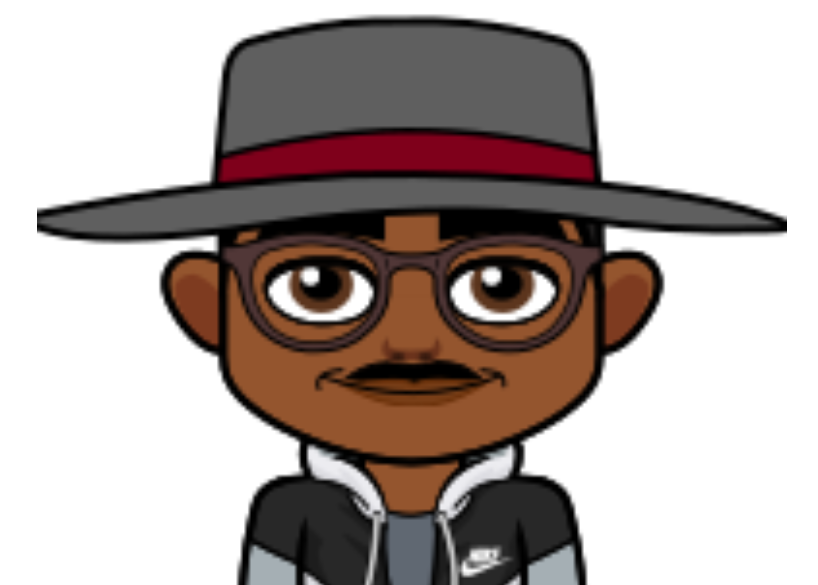
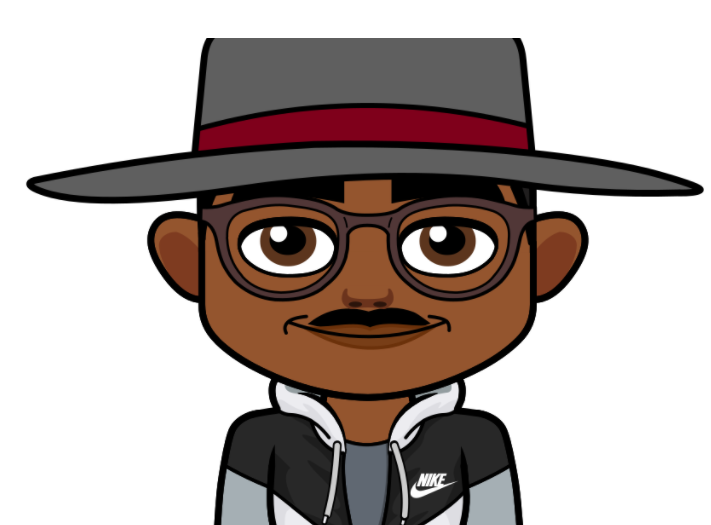
adding more bitmoji

Changed region(s): [[0.0309, 0.0, 0.9902, 1.0]]

diff --git a/src/routes/about.js b/src/routes/about.js
@@ -1,10 +1,10 @@
 import React from "react"
 import EmailIcon from "@material-ui/icons/Email";
 import GitHubIcon from "@material-ui/icons/GitHub";
-import libmoji from 'libmoji'
+//import libmoji from 'libmoji'
 
 import officers from '../data/officer-data';
-import baoBitmoji from "../images/bao.PNG"
+
 import '../css/about.css';
 
 class About extends React.Component {
@@ -60,44 +60,41 @@ const Officer = props => {
         email, github
     } = props;
 
-    const data = {
-        "name": "Chau",
-        "gender": "female",
+    /*const data = {
+        "name": "Bao",
+        "gender": "male",
         "traits": {
-            "brow": "768",
+            "beard": "-1",
+            "brow": "755",
             "cheek_details": "-1",
-            "eyelash": "-1",
             "eye_details": "939",
-            "face_lines": "-1",
+            "face_lines": "942",
             "glasses": "954",
-            "hair": "1260",
-            "hat": "1178",
-            "mouth": "1055",
-            "nose": "1032",
+            "hair": "813",
+            "hat": "1081",
+            "mouth": "763",
+            "nose": "761",
+            "beard_tone": "3875595",
             "blush_tone": "-1",
             "brow_tone": "0",
             "eyeshadow_tone": "-1",
-            "hair_tone": "2039326",
+            "hair_tone": "2566954",
             "lipstick_tone": "-1",
             "pupil_tone": "5977116",
-            "skin_tone": "9655597",
-            "body": "7",
-            "breast": "3",
-            "face_proportion": "2"
+            "skin_tone": "15838344",
+            "body": "2",
+            "face_proportion": "3"
         },
-        "outfit": "1017915"
+        "outfit": "1018481"
     }
-    let style = libmoji.styles[libmoji.randInt(3)];
-    console.log(style[1])
+
     const { gender, traits, outfit } = data;
-    const styles = [["bitstrips", 1], ['bitmoji', 4], ["cm", 5]];
-    const bitmojiImage = libmoji.buildPreviewUrl("body",
-        4,
+    const bitmojiImage = libmoji.buildPreviewUrl("body", 4,
         gender === 'female' ? 2 : 1,
         4, 0,
         Object.keys(traits).map(k => [k, traits[k]]),
         outfit
-    );
+    );*/
 
     return (
         <div className="officer-container">

diff --git a/src/data/officer-data.js b/src/data/officer-data.js
@@ -1,11 +1,13 @@
 import baoBitmoji from "../images/bao.PNG"
 import brendanBitmoji from "../images/brendan.PNG"
 import chauBitmoji from "../images/chau.PNG"
+import vivianBitmoji from "../images/vivian.PNG"
+
 const officers = [
     {
         name: "Vivian Lee",
         major: "Computer Engineering",
-        image: "https://i.pinimg.com/originals/32/93/2a/32932abc2400f4f6a4e67eecd14e9b9e.jpg",
+        image: vivianBitmoji,
         position: "President",
         link: "https://viviaann.github.io/",
         fun_fact: '"😅"',

diff --git a/src/css/about.css b/src/css/about.css
@@ -12,7 +12,7 @@
 }
 
 .officer-img {
-    height: 400px;
+    height: 300px;
     width: 300px;
     object-fit: cover;
     border-radius: 20px;
